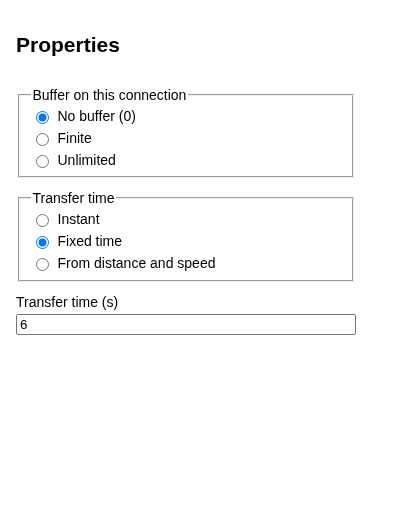
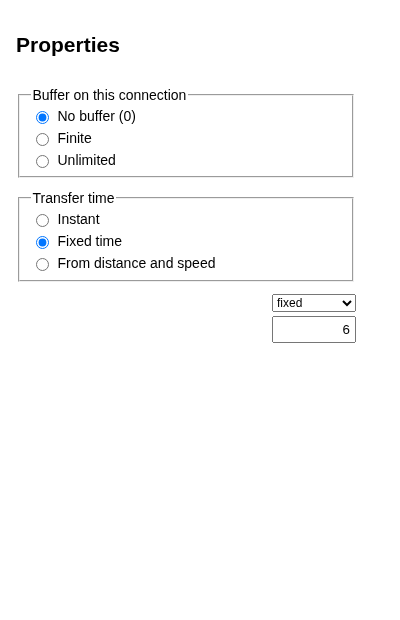
FL-4: use the duration editor for fixed transfer time; test ft/min speed

diff --git a/apps/web/src/layout/PropertiesPanel.tsx b/apps/web/src/layout/PropertiesPanel.tsx
@@ -1,6 +1,7 @@
 import { useState } from 'react';
 import { useEditorStore as defaultStore } from './editorStore';
 import { Field, parseNumber } from './Field';
+import { DurationEditor } from '../products/DurationEditor';
 import { LaborEditor } from '../technicians/LaborEditor';
 import { BASE_EQUIPMENT_TYPES, type Connection, type Equipment } from '@factory-sim/schema';
 import { portWorldPosition } from './ports';
@@ -81,6 +82,7 @@ function ConnectionProperties({ useStore }: { useStore: Store }) {
   function transferTime(conn: Connection, distance: number | null) {
     const t = conn.transfer;
     const speedUnit = unit === 'ft' ? 'ft/min' : 'm/s';
+    // Results are ignored: every value written here is valid by construction.
     const pickKind = (k: Connection['transfer']['kind']) => {
       if (k === t.kind) return;
       if (k === 'instant') updateConnection(conn.id, { transfer: { kind: 'instant' } });
@@ -110,21 +112,22 @@ function ConnectionProperties({ useStore }: { useStore: Store }) {
           {radio('fixed', 'Fixed time')}
           {radio('speed', 'From distance and speed')}
         </fieldset>
-        {t.kind === 'fixed' && t.time.kind === 'fixed' && (
-          <Field
+        {t.kind === 'fixed' && (
+          <DurationEditor
+            key={`tt-${conn.id}`}
+            name="Transfer time"
+            fixedLabel="Transfer time (s)"
+            time={t.time}
+            setTime={(d) => updateConnection(conn.id, { transfer: { kind: 'fixed', time: d } })}
+            // A transfer always has a time, so clearing the field is ignored.
+            setFixed={(seconds) =>
+              seconds !== null &&
+              updateConnection(conn.id, {
+                transfer: { kind: 'fixed', time: { kind: 'fixed', value: seconds } },
+              })
+            }
             beginEdit={beginEdit}
             endEdit={endEdit}
-            key={`tt-${conn.id}`}
-            label="Transfer time (s)"
-            value={String(t.time.value)}
-            commit={(text) => {
-              const n = parseNumber(text);
-              if (typeof n === 'string') return n;
-              const r = updateConnection(conn.id, {
-                transfer: { kind: 'fixed', time: { kind: 'fixed', value: n } },
-              });
-              return r.ok ? null : r.error;
-            }}
           />
         )}
         {t.kind === 'speed' && (

diff --git a/apps/web/src/layout/PropertiesPanel.test.tsx b/apps/web/src/layout/PropertiesPanel.test.tsx
@@ -318,6 +318,7 @@ describe('FL-4 connection transfer time', () => {
     const time = screen.getByLabelText(/transfer time \(s\)/i);
     await user.clear(time);
     await user.type(time, '6');
+    await user.tab(); // the duration editor commits on blur or Enter
     expect(transfer()).toEqual({ kind: 'fixed', time: { kind: 'fixed', value: 6 } });
     await user.click(screen.getByRole('radio', { name: /distance and speed/i }));
     const speed = screen.getByLabelText(/speed \(m\/s\)/i);
@@ -328,6 +329,25 @@ describe('FL-4 connection transfer time', () => {
     expect(screen.getByText(/^distance/i).textContent).toMatch(/s\b/);
     await user.click(screen.getByRole('radio', { name: /instant/i }));
     expect(transfer()).toEqual({ kind: 'instant' });
+  });
+
+  it('in ft mode the speed is entered in ft/min and stored in m/s', async () => {
+    const user = userEvent.setup();
+    store.getState().setUnit('ft');
+    connect();
+    await user.click(await screen.findByRole('radio', { name: /distance and speed/i }));
+    const speed = screen.getByLabelText(/speed \(ft\/min\)/i);
+    await user.clear(speed);
+    await user.type(speed, '100');
+    expect((transfer() as { speed: number }).speed).toBeCloseTo(0.508, 3);
+  });
+
+  it('a non-fixed transfer time stays visible and editable', async () => {
+    connect();
+    store.getState().updateConnection(store.getState().connections[0]!.id, {
+      transfer: { kind: 'fixed', time: { kind: 'normal', mean: 5, stdDev: 1 } },
+    });
+    expect(await screen.findByDisplayValue('5')).toBeTruthy();
   });
 
   it('shows an inline error for a bad speed and does not write it', async () => {
